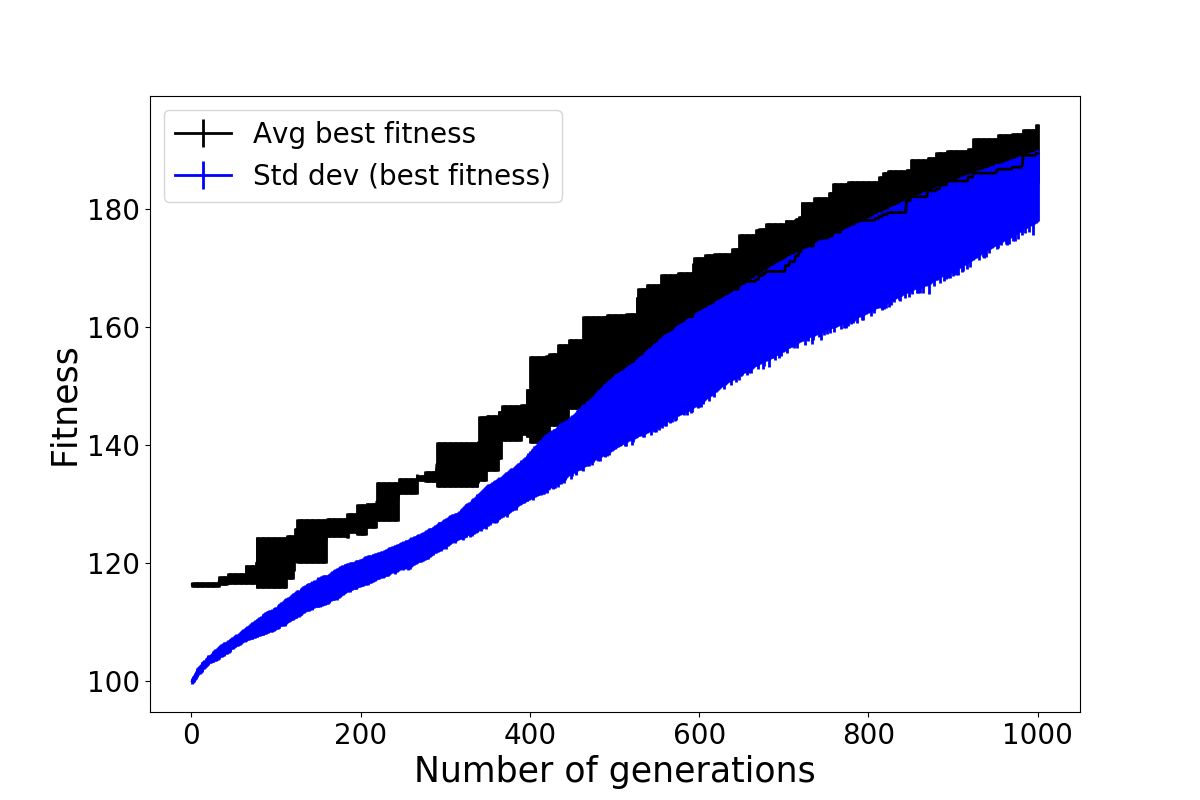
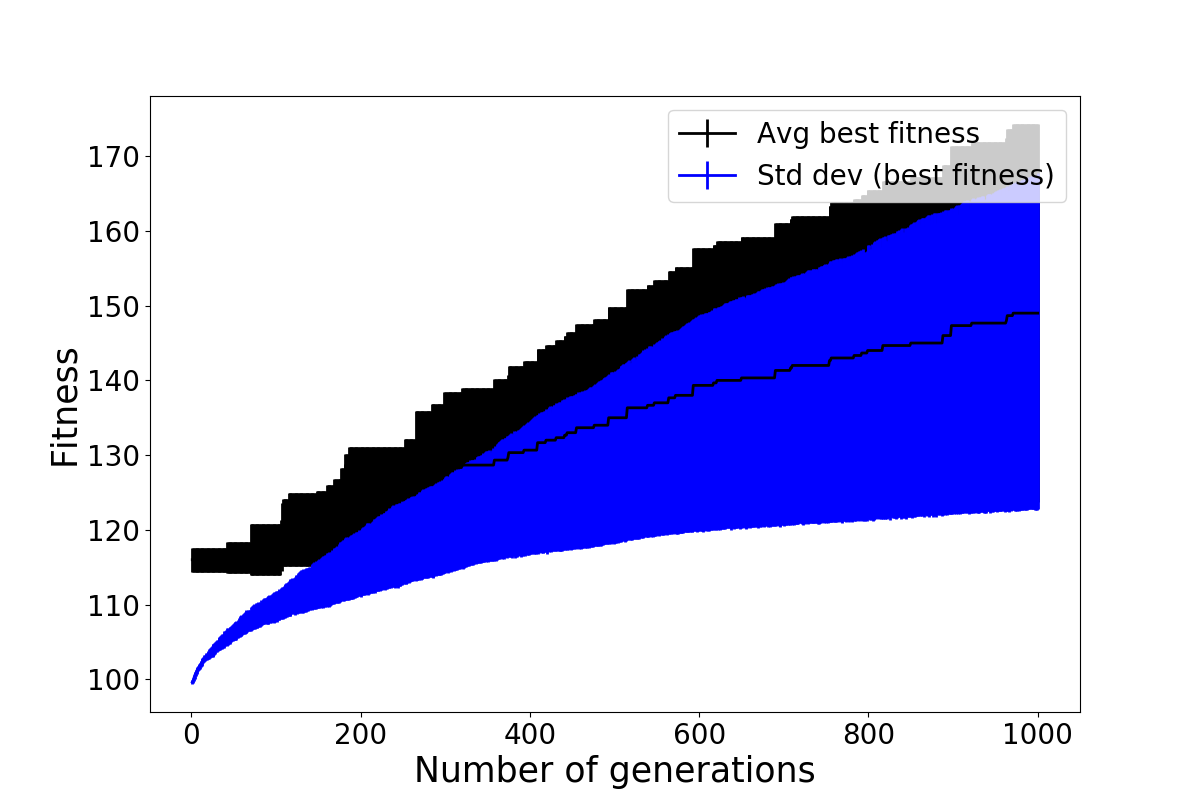
Updated code to generate operator evolution graph

diff --git a/codes/experiments.py b/codes/experiments.py
@@ -12,7 +12,7 @@ params = {\
  'Crossover Type (3)'           :1, \
  'Crossover Rate (4)'           :0.8, \
  'Mutation Type (5)'            :1, \
- 'Mutation Rate (6)'            :0.001, \
+ 'Mutation Rate (6)'            :0.005, \
  'Random Number Seed'           :75982, \
  'Number of Genes/Points (7)'   :1, \
  'Size of Genes (18)'           :200, \
@@ -21,11 +21,11 @@ params = {\
  'Depth'                        :5
 }
 
-gens_per_run = [1000]
+gens_per_run = [5000]
 pop_sizes = [300]
-qlens = [10, 50, 100]
-decay_values = [0.1, 0.5, 0.8]
-depths = [2, 5, 10]
+qlens = [10, 500]
+decay_values = [0.5, 0.95]
+depths = [1, 8]
 
 for g in gens_per_run:
  params['Generations per Run'] = g
